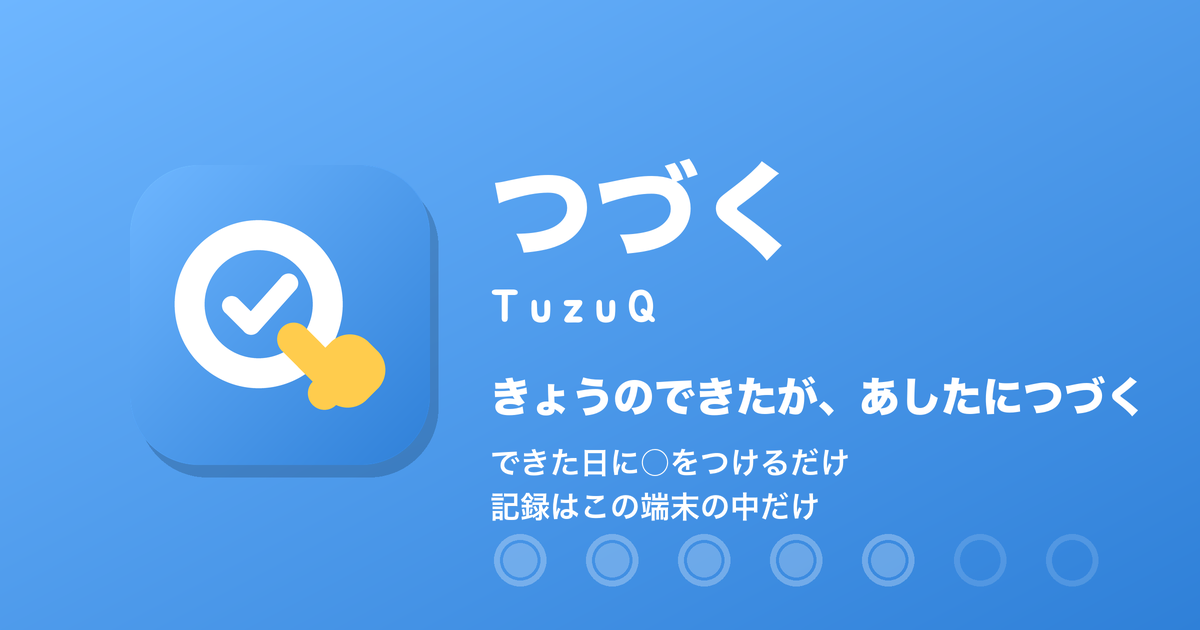
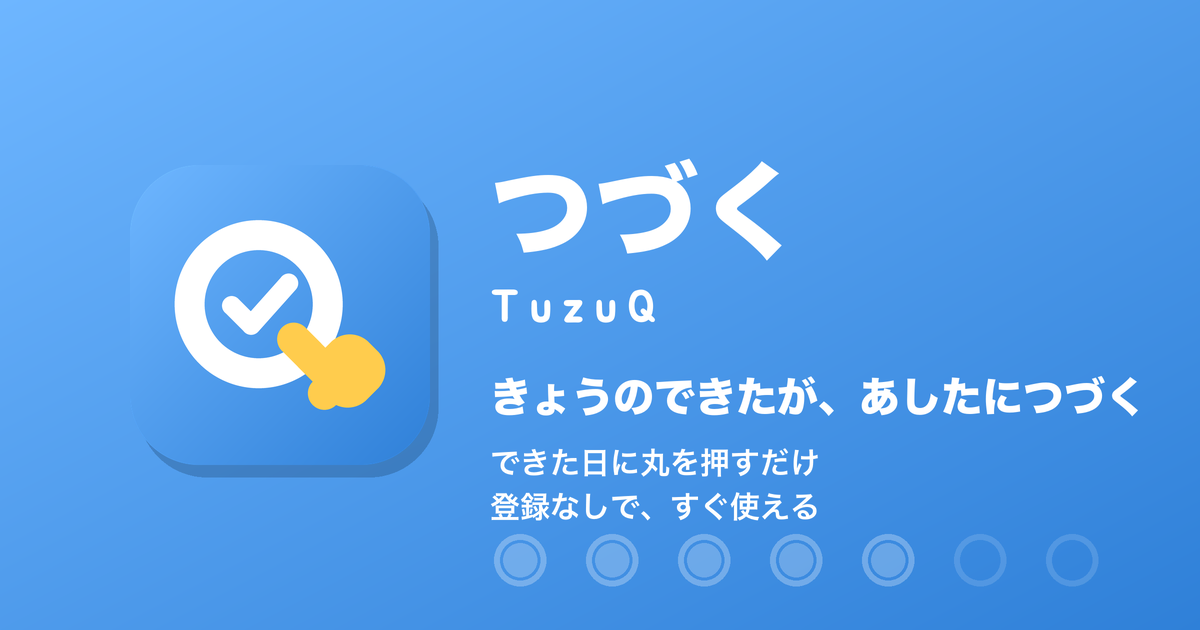
紹介文と OGP の画像を今の形に：登録なしで、すぐ使える。LINE にカードで送ったり、LINE で開いて自分の記録ボットとつなぎ、GitHub の草を付けたりもできる（「記録はこの端末の中だけ」をやめる）

diff --git a/index.html b/index.html
@@ -4,13 +4,13 @@
 <meta charset="UTF-8">
 <meta name="viewport" content="width=device-width, initial-scale=1, viewport-fit=cover">
 <title>つづく｜毎日の○で、習慣をつづける</title>
-<meta name="description" content="つづく（TuzuQ）。できた日に○をつけるだけの習慣カレンダー。何日つづいたか・ひと月の○が見えます。記録はこの端末の中だけ。LINE にカードで送れます。">
+<meta name="description" content="つづく（TuzuQ）。できた日に丸を押すだけの習慣カレンダー。何日つづいたか・ひと月のチェックがひと目でわかります。登録なしで、すぐ使えます。LINE にカードで送ったり、LINE で開いて自分の記録ボットとつなぎ、GitHub の草を付けたりもできます。">
 <meta property="og:type" content="website">
 <meta property="og:site_name" content="つづく（TuzuQ）">
 <meta property="og:title" content="つづく｜毎日の○で、習慣をつづける">
-<meta property="og:description" content="できた日に○をつけるだけ。何日つづいたか・ひと月の○が見えます。記録はこの端末の中だけで、LINE にカードで送れます。">
+<meta property="og:description" content="できた日に丸を押すだけの習慣カレンダー。登録なしで、すぐ使えます。LINE にカードで送ったり、LINE で開いて自分の記録ボットとつなぎ、GitHub の草を付けたりもできます。">
 <meta property="og:url" content="https://katsuan.github.io/tuzuq/">
-<meta property="og:image" content="https://katsuan.github.io/tuzuq/ogp.png?v=4">
+<meta property="og:image" content="https://katsuan.github.io/tuzuq/ogp.png?v=5">
 <meta property="og:image:width" content="1200">
 <meta property="og:image:height" content="630">
 <meta property="og:image:alt" content="つづく（TuzuQ）：毎日の○で、習慣をつづける">

diff --git a/tools/icon.py b/tools/icon.py
@@ -104,7 +104,7 @@ def main():
     (ROOT / "logo.svg").write_text(z_arrow_logo(logo), encoding="utf-8")
     BRAND.write_ogp(
         ROOT / "ogp.png", SHAPES, "つづく", "TuzuQ",
-        ["できた日に○をつけるだけ", "記録はこの端末の中だけ"], decorate,
+        ["できた日に丸を押すだけ", "登録なしで、すぐ使える"], decorate,
         copy="きょうのできたが、あしたにつづく",
     )
     print(f"アイコン・logo.svg（高さ 28px なら幅 {28 * ratio:.0f}px）・ogp.png を書き出しました")

diff --git a/README.md b/README.md
@@ -1,6 +1,6 @@
 # ✅ つづく 〜TuzuQ〜
 
-できた日に○をつけるだけの習慣カレンダー。何日つづいたか・ひと月の○が見える。名前は「つづく」。英字は TuzuQ（「つ・づ・く」を tu・zu・Q と書き、「く」を Q にする。おくるん＝OQRN・しょくじ＝ShoQuji と同じ作り方）。キャッチコピーは「きょうのできたが、あしたにつづく」。GitHub Pages でそのまま動く静的サイトで、サーバーは使わない。
+できた日に丸を押すだけの習慣カレンダー。何日つづいたか・ひと月のチェックが見える。登録なしで使える（LINE で開いて自分の記録ボット（GAS）や GitHub の草とつなぐときは、LINE ログインと自分の GAS が要る）。名前は「つづく」。英字は TuzuQ（「つ・づ・く」を tu・zu・Q と書き、「く」を Q にする。おくるん＝OQRN・しょくじ＝ShoQuji と同じ作り方）。キャッチコピーは「きょうのできたが、あしたにつづく」。GitHub Pages でそのまま動く静的サイトで、サーバーは使わない。
 
 公開URL: https://katsuan.github.io/tuzuq/ （2026-10-23 公開。ConneQt の一覧・ポートフォリオにも載せた。英字ははじめ TsuduQ（tsuduq）だったが、同じ日に TuzuQ（tuzuq）へ変えた）
 
